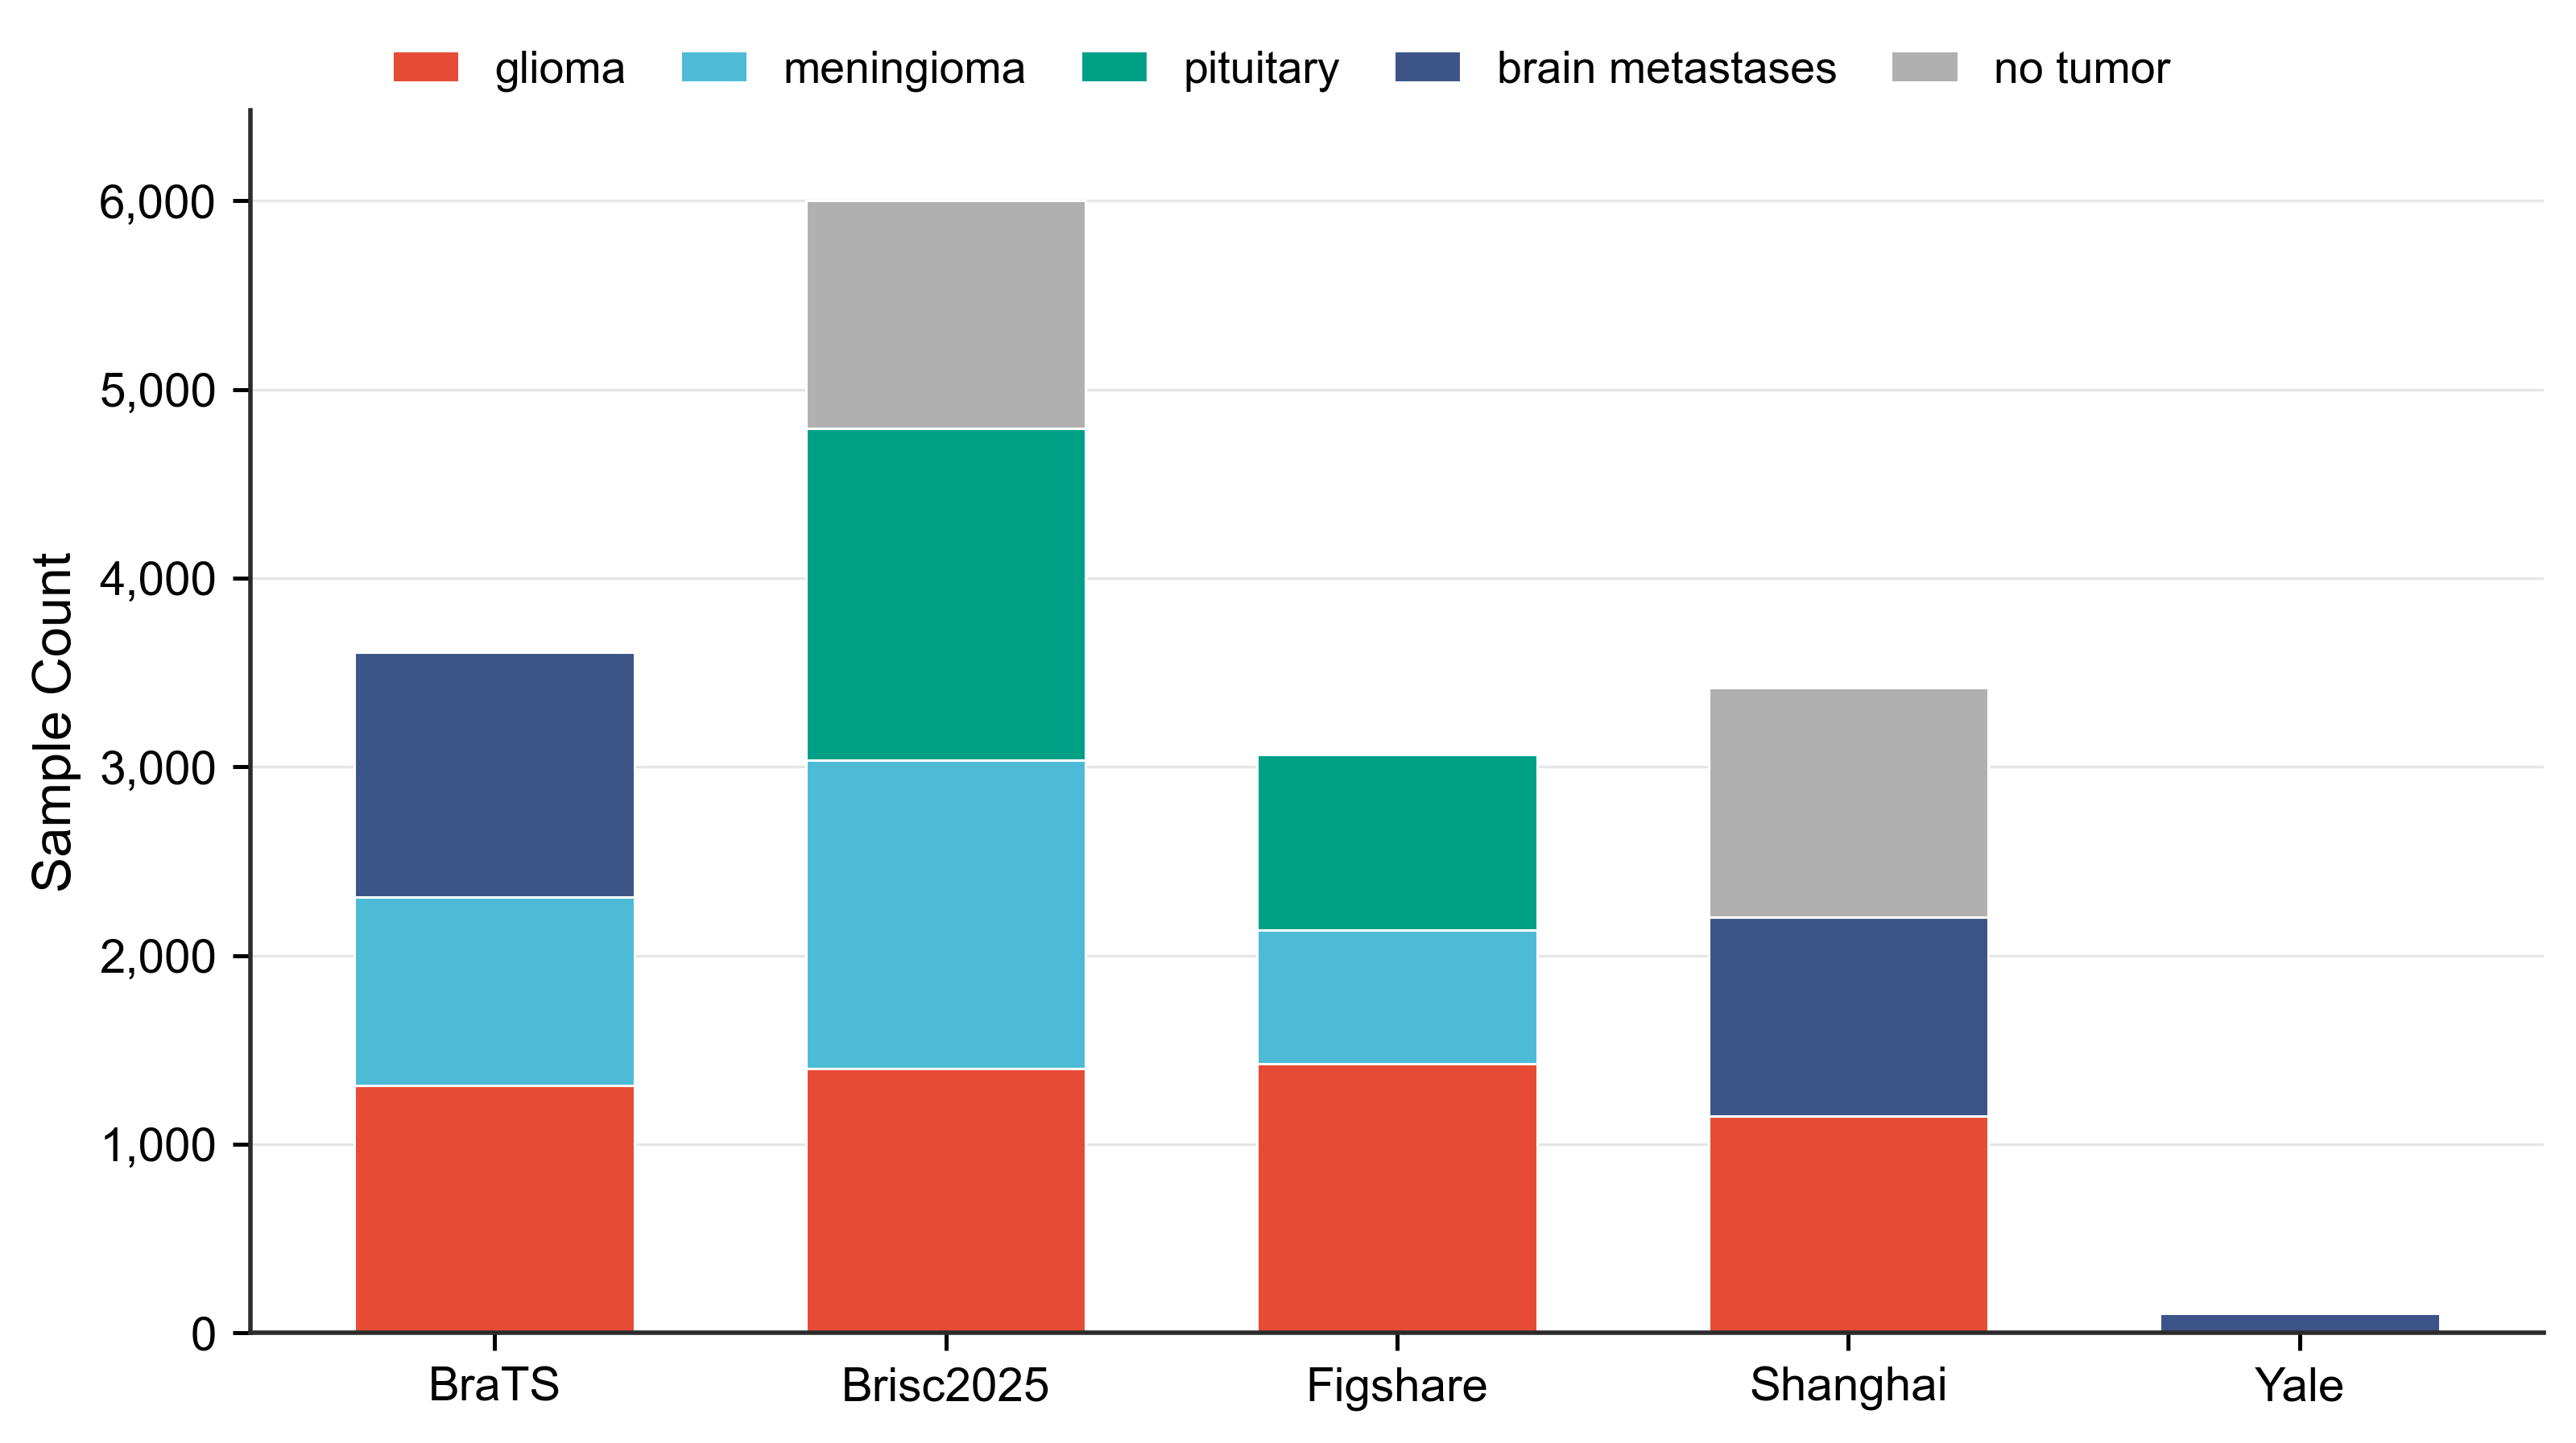
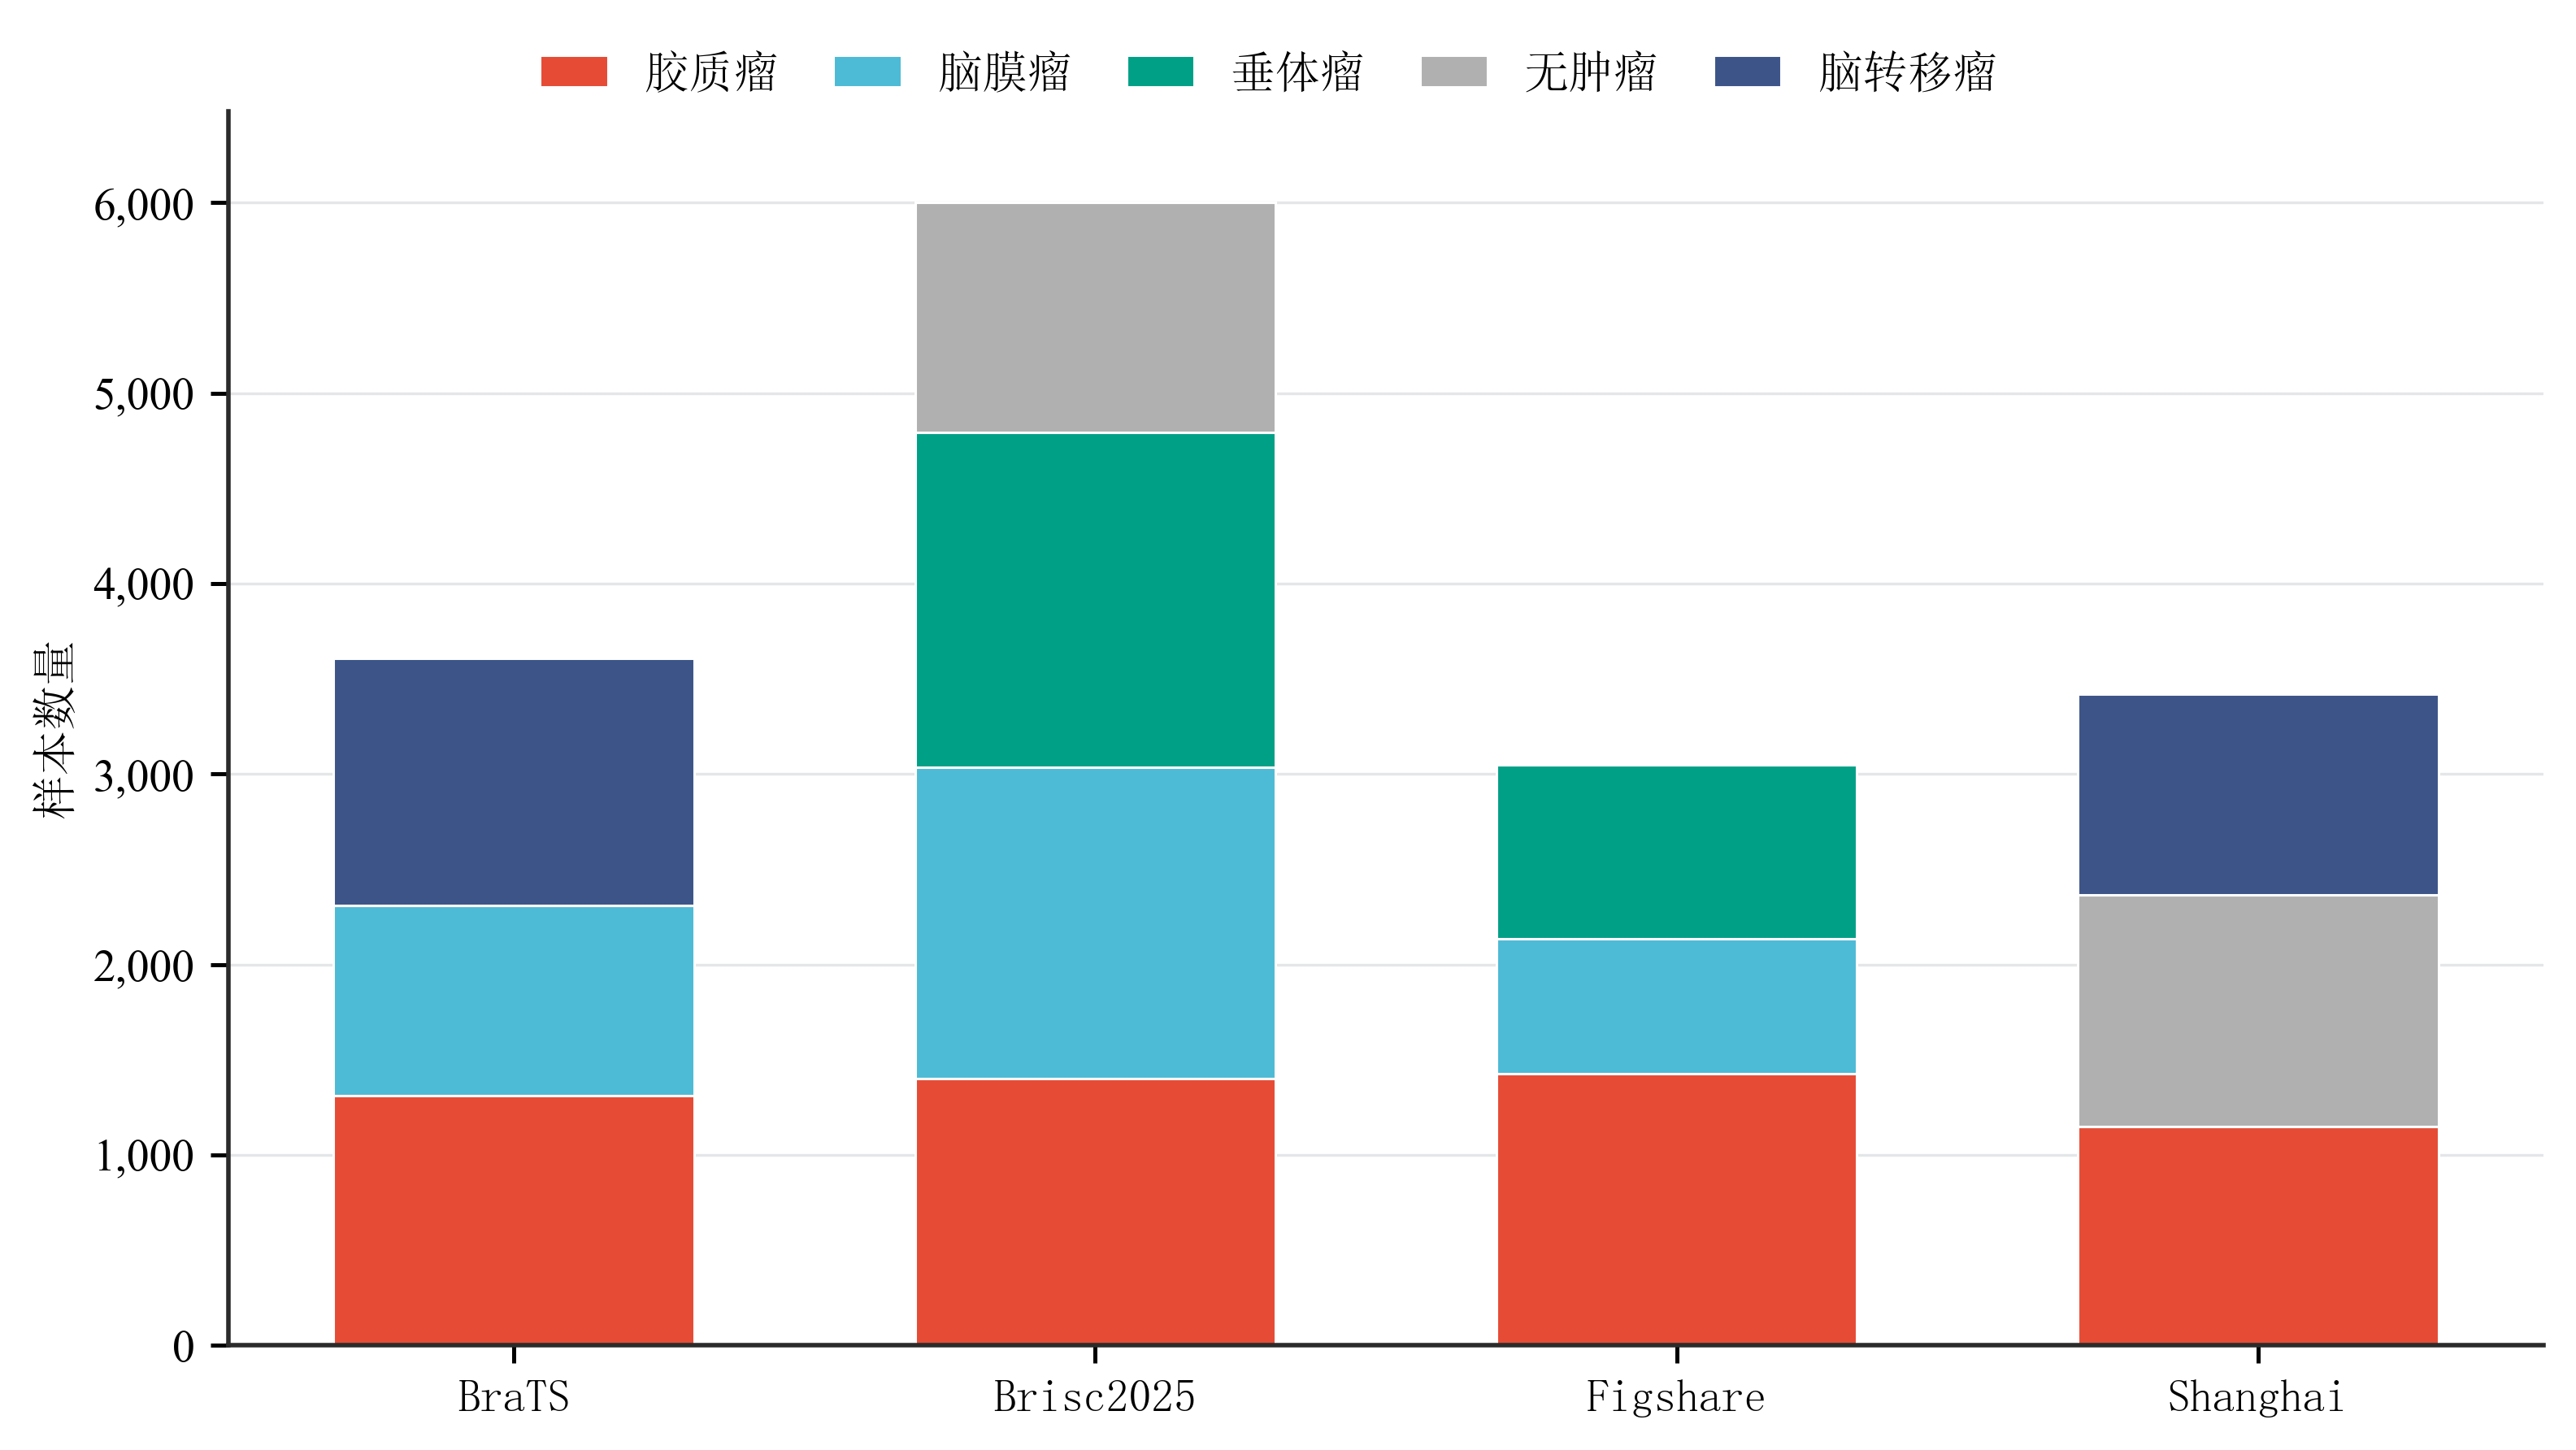
last

diff --git a/plot_client_label_distribution.py b/plot_client_label_distribution.py
@@ -3,8 +3,12 @@ from pathlib import Path
 
 import matplotlib.pyplot as plt
 import pandas as pd
+from matplotlib.font_manager import FontProperties
 from matplotlib.ticker import FuncFormatter
 
+
+CHINESE_FONT = "SimSun"
+NUMBER_FONT = "Times New Roman"
 
 # NPG-inspired palette (muted, publication-friendly)
 NATURE_COLORS = [
@@ -38,7 +42,13 @@ def parse_args() -> argparse.Namespace:
         "--manifest",
         type=Path,
         default=None,
-        help="Path to split_manifest.csv. If omitted, script auto-detects common locations.",
+        help="Path to split_manifest.csv. If omitted, scan --root_dir.",
+    )
+    parser.add_argument(
+        "--root_dir",
+        type=Path,
+        default=Path("/data/zikun_workspace/preprocessed"),
+        help="Root directory for preprocessed datasets when --manifest is omitted.",
     )
     parser.add_argument(
         "--split",
@@ -50,13 +60,7 @@ def parse_args() -> argparse.Namespace:
         "--output",
         type=Path,
         default=None,
-        help="Output image path (.png). Default: same folder as manifest.",
-    )
-    parser.add_argument(
-        "--output-pdf",
-        type=Path,
-        default=None,
-        help="Output PDF path. Default: same folder as manifest.",
+        help="Output image path (.png). Default: same folder as manifest or current folder.",
     )
     parser.add_argument(
         "--title",
@@ -85,18 +89,56 @@ def resolve_manifest(manifest: Path | None) -> Path:
     )
 
 
+def load_manifest_dataframe(manifest: Path | None, root_dir: Path, split: str) -> pd.DataFrame:
+    if manifest is not None:
+        df = pd.read_csv(manifest)
+        required = {"dataset", "split", "label", "sample_id"}
+        missing = required - set(df.columns)
+        if missing:
+            raise ValueError(f"Manifest missing columns: {sorted(missing)}")
+        return df
+
+    rows = []
+    splits = ["train", "test"] if split == "all" else [split]
+    for dataset_dir in sorted(root_dir.iterdir()):
+        if not dataset_dir.is_dir():
+            continue
+        dataset = dataset_dir.name
+        for split_name in splits:
+            split_dir = dataset_dir / split_name
+            if not split_dir.is_dir():
+                continue
+            for label_dir in sorted(split_dir.iterdir()):
+                if not label_dir.is_dir():
+                    continue
+                for sample_dir in sorted(label_dir.iterdir()):
+                    if sample_dir.is_dir():
+                        rows.append(
+                            {
+                                "dataset": dataset,
+                                "split": split_name,
+                                "label": label_dir.name,
+                                "sample_id": sample_dir.name,
+                            }
+                        )
+    return pd.DataFrame(rows, columns=["dataset", "split", "label", "sample_id"])
+
+
 def set_nature_style() -> None:
     # Reset first to avoid inheriting environment/global styles.
     plt.rcdefaults()
     plt.rcParams.update(
         {
-            "font.family": "sans-serif",
-            "font.sans-serif": ["Arial", "Helvetica", "DejaVu Sans"],
+            "font.family": CHINESE_FONT,
+            "axes.unicode_minus": False,
             "axes.linewidth": 1.0,
             "axes.edgecolor": "#2B2B2B",
             "axes.facecolor": "#FFFFFF",
             "figure.facecolor": "#FFFFFF",
             "savefig.facecolor": "#FFFFFF",
+            "font.weight": "bold",
+            "axes.labelweight": "bold",
+            "axes.titleweight": "bold",
             "axes.labelsize": 12,
             "axes.titlesize": 13,
             "xtick.labelsize": 10.5,
@@ -116,23 +158,30 @@ def set_nature_style() -> None:
 
 
 def pretty_label(label: str) -> str:
-    return label.replace("_", " ")
+    label_names = {
+        "glioma": "胶质瘤",
+        "meningioma": "脑膜瘤",
+        "pituitary": "垂体瘤",
+        "brain_metastases": "脑转移瘤",
+        "no_tumor": "无肿瘤",
+    }
+    return label_names.get(label, label.replace("_", " "))
 
 
 def main() -> None:
     args = parse_args()
-    manifest = resolve_manifest(args.manifest)
-    output_png = args.output or manifest.parent / "client_label_distribution.png"
-    output_pdf = args.output_pdf or manifest.parent / "client_label_distribution.pdf"
+    manifest = resolve_manifest(args.manifest) if args.manifest is not None else None
+    output_png = args.output or (
+        manifest.parent / "client_label_distribution.png"
+        if manifest is not None
+        else Path("client_label_distribution.png")
+    )
 
-    df = pd.read_csv(manifest)
-    required = {"dataset", "split", "label", "sample_id"}
-    missing = required - set(df.columns)
-    if missing:
-        raise ValueError(f"Manifest missing columns: {sorted(missing)}")
-
+    df = load_manifest_dataframe(manifest, args.root_dir, args.split)
     if args.split != "all":
         df = df[df["split"] == args.split].copy()
+
+    df = df[df["dataset"] != "Yale"].copy()
 
     # Ensure one sample counts once
     df = df.drop_duplicates(subset=["dataset", "split", "label", "sample_id"])
@@ -148,7 +197,7 @@ def main() -> None:
     )
 
     # Fixed client order for readability and consistency.
-    preferred_client_order = ["BraTS", "Brisc2025", "Figshare", "Shanghai", "Yale"]
+    preferred_client_order = ["BraTS", "Brisc2025", "Figshare", "Shanghai"]
     present_clients = list(table.index)
     ordered_clients = [c for c in preferred_client_order if c in present_clients] + [
         c for c in present_clients if c not in preferred_client_order
@@ -161,6 +210,9 @@ def main() -> None:
 
     set_nature_style()
     fig, ax = plt.subplots(figsize=(8.0, 5.2), dpi=300)
+    chinese_font = FontProperties(family=CHINESE_FONT, weight="bold")
+    legend_font = FontProperties(family=CHINESE_FONT, weight="bold", size=10.0)
+    number_font = FontProperties(family=NUMBER_FONT, weight="bold")
 
     bottom = None
     x = list(range(len(table.index)))
@@ -188,12 +240,16 @@ def main() -> None:
         bottom = y if bottom is None else bottom + y
 
     ax.set_xlabel("")
-    ax.set_ylabel("Sample Count")
+    ax.set_ylabel("样本数量", fontproperties=chinese_font)
     if args.title.strip():
-        ax.set_title(args.title.strip(), pad=6)
+        ax.set_title(args.title.strip(), pad=6, fontproperties=chinese_font)
     ax.set_xticks(list(x))
     ax.set_xticklabels(table.index, rotation=0)
     ax.yaxis.set_major_formatter(FuncFormatter(lambda y, _: f"{int(y):,}"))
+    for tick_label in ax.get_xticklabels():
+        tick_label.set_fontproperties(chinese_font)
+    for tick_label in ax.get_yticklabels():
+        tick_label.set_fontproperties(number_font)
 
     for spine in ["top", "right"]:
         ax.spines[spine].set_visible(False)
@@ -208,7 +264,7 @@ def main() -> None:
         loc="upper center",
         bbox_to_anchor=(0.5, 0.92),
         ncol=min(5, len(table.columns)),
-        fontsize=10.0,
+        prop=legend_font,
         title=None,
         handlelength=1.5,
         columnspacing=1.2,
@@ -218,10 +274,7 @@ def main() -> None:
     fig.subplots_adjust(top=0.86, left=0.10, right=0.99, bottom=0.13)
     output_png.parent.mkdir(parents=True, exist_ok=True)
     plt.savefig(output_png, bbox_inches="tight", dpi=400)
-    output_pdf.parent.mkdir(parents=True, exist_ok=True)
-    plt.savefig(output_pdf, bbox_inches="tight")
     print(f"Saved PNG: {output_png}")
-    print(f"Saved PDF: {output_pdf}")
 
 
 if __name__ == "__main__":

diff --git a/readme.md b/readme.md
@@ -166,7 +166,7 @@
 本文方法主要改进三处：
 1. 特征融合：不再简单拼接不同模态特征，而是让模型自动判断当前样本更应该依赖哪些模态。
 2. Prototype 传递：单模态客户端不仅学习自己的单模态 prototype，也可以从更完整的多模态 prototype 中获得监督。
-3. 分类头聚合：不再简单平均分类头，而是让样本更多、prototype 更可靠、模态更完整的客户端拥有更高权重。
+3. 分类头聚合：不再简单平均分类头，而是根据客户端本地 prototype 与全局 prototype 的一致性，为整个分类头分配不同聚合权重。
 
 ### 主要符号
 为避免后文公式过长，先约定几个符号：
@@ -306,69 +306,46 @@ $$
 
 由于前面的 fusion 已经把所有客户端的融合特征统一到维度 $D$，所以不同客户端的分类头形状一致，可以进行参数交换。
 
-`LG-FedAvg` 是直接平均分类头。本文希望更细一些：不同客户端对不同类别的可靠性不一样，所以分类头按类别逐行聚合：
+`LG-FedAvg` 是直接平均分类头。当前实现比它更细一些：服务器先根据每个客户端上传的 prototype 计算一个可靠性分数，再用这个分数对整个分类头做加权平均：
 
 $$
-W_c^{t+1}=\sum_{k\in\mathcal{K}_c}\pi_{k,c}W_{k,c}^{t+1}
+W^{t+1}=\sum_{k\in\mathcal{K}}\alpha_k W_k^{t+1}
 $$
 
 $$
-b_c^{t+1}=\sum_{k\in\mathcal{K}_c}\pi_{k,c}b_{k,c}^{t+1}
+b^{t+1}=\sum_{k\in\mathcal{K}}\alpha_k b_k^{t+1}
 $$
 
-其中 $W_{k,c}$ 和 $b_{k,c}$ 是客户端 $k$ 分类头中对应类别 $c$ 的那一行参数，$\pi_{k,c}$ 是它在这个类别上的聚合权重。
+其中 $W_k,b_k$ 是客户端 $k$ 的整个线性分类头，$\alpha_k$ 是客户端 $k$ 在本轮通信中的聚合权重。也就是说，当前代码不是“每个类别单独聚合一行”，而是“先给每个客户端一个标量权重，再用它聚合整个 head”。
 
-权重主要看三个因素：
-1. 这个客户端上该类别的样本多不多。
-2. 这个客户端的 prototype 和全局 prototype 是否接近。
-3. 这个客户端在该类别上是否拥有更完整的模态。
-
-对应的权重可以写成：
+权重的核心来自 prototype 一致性。先定义客户端 $k$ 的可靠性分数：
 
 $$
-r_{k,c}
+r_k=\exp(\rho_k/\tau_h)
+$$
+
+$$
+\alpha_k
 =
-(n_{k,c}+\epsilon)^\gamma
-\cdot
-\exp(\rho_{k,c}/\tau_h)
-\cdot
-(1+\beta\eta_{k,c})
+\frac{r_k}
+{\sum_{j\in\mathcal{K}}r_j}
 $$
 
-$$
-\pi_{k,c}
-=
-\frac{r_{k,c}}
-{\sum_{j\in\mathcal{K}_c}r_{j,c}}
-$$
-
-这里 $n_{k,c}$ 是类别样本数，$\rho_{k,c}$ 表示 prototype 一致性，$\eta_{k,c}$ 表示模态完整度。$\epsilon,\gamma,\tau_h,\beta$ 都是超参数，用来控制各部分权重的强弱。
+这里 $\rho_k$ 表示客户端 $k$ 的 prototype 一致性，$\tau_h$ 是控制权重平滑程度的温度参数。
 
 其中：
 
 $$
-\rho_{k,c}
+\rho_k
 =
 \frac{
-\sum_s n_{k,s,c}\cos(p_{k,s,c},G_{s,c})
+ \sum_{s,c} n_{k,s,c}\cos(p_{k,s,c},G_{s,c})
 }{
-\sum_s n_{k,s,c}
+ \sum_{s,c} n_{k,s,c}
 }
 $$
 
-它表示客户端 $k$ 在类别 $c$ 上的 prototype 平均有多接近全局 prototype。
-
-$$
-\eta_{k,c}
-=
-\frac{
-\sum_s n_{k,s,c}|s|/M
-}{
-\sum_s n_{k,s,c}
-}
-$$
-
-它表示客户端 $k$ 在类别 $c$ 上平均拥有多少比例的模态。最终效果是：如果某个客户端在某类上样本更多、特征更稳定、模态更完整，那么它对该类分类头的贡献就更大。
+其中 $n_{k,s,c}$ 是客户端 $k$ 上模态组合 $s$、类别 $c$ 的样本数。这个公式表示：先在每个 `(modality_combination, class)` 上计算本地 prototype 与全局 prototype 的余弦相似度，再用对应样本数做加权平均，得到客户端级别的总体一致性分数。最终效果是：如果某个客户端上传的 prototype 整体上更接近全局 prototype，那么它的整个分类头在聚合时权重就更大。
 
 ### 训练目标
 客户端本地训练只保留三类损失，避免方法过于复杂：
@@ -418,10 +395,10 @@ $$
 1. 服务器向客户端下发当前全局分类头和 prototype bank。
 2. 客户端使用本地可用模态训练私有 encoder、gated fusion 模块和线性分类头。
 3. 客户端统计本地 `(modality_combination, class)` prototype，并上传 prototype、样本计数和分类头参数。
-4. 服务器先更新 prototype bank，再基于 prototype 可靠性与模态完整度聚合分类头。
+4. 服务器先更新 prototype bank，再基于客户端 prototype 与全局 prototype 的一致性聚合分类头。
 5. 更新后的 prototype bank 和分类头进入下一轮训练。
 
-总结来说，本文方法可以理解为：在 `FedAMM` 的模态组合 prototype 基础上，加入 `LG-FedAvg` 中被证明有效的分类头共享；但分类头不是简单平均，而是由 prototype 和模态完整度来决定每个客户端在每个类别上的贡献。
+总结来说，本文方法可以理解为：在 `FedAMM` 的模态组合 prototype 基础上，加入 `LG-FedAvg` 中被证明有效的分类头共享；但分类头不是简单平均，而是由客户端 prototype 与全局 prototype 的一致性来决定每个客户端对整个分类头的贡献。
 
 
 